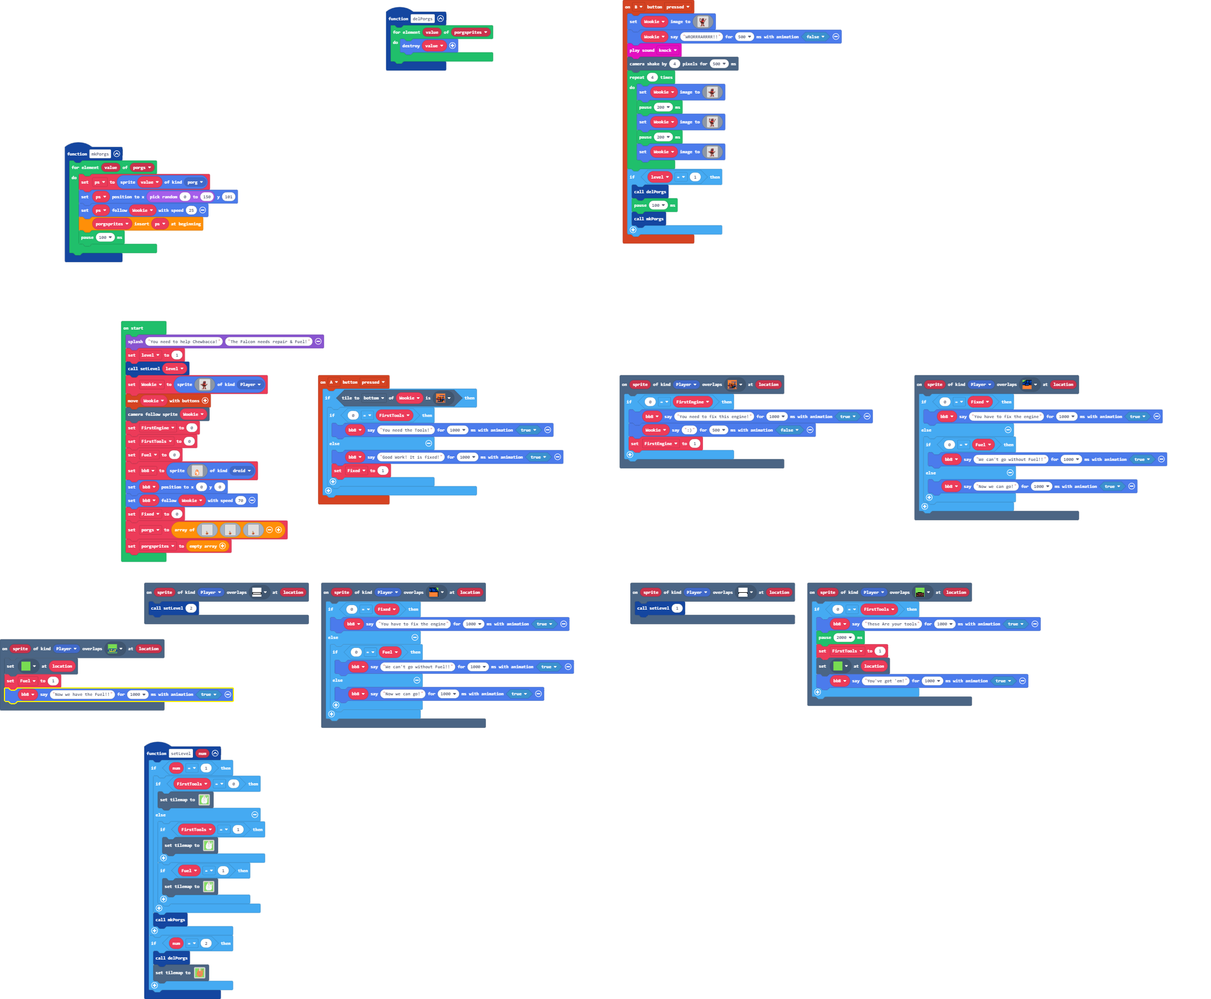
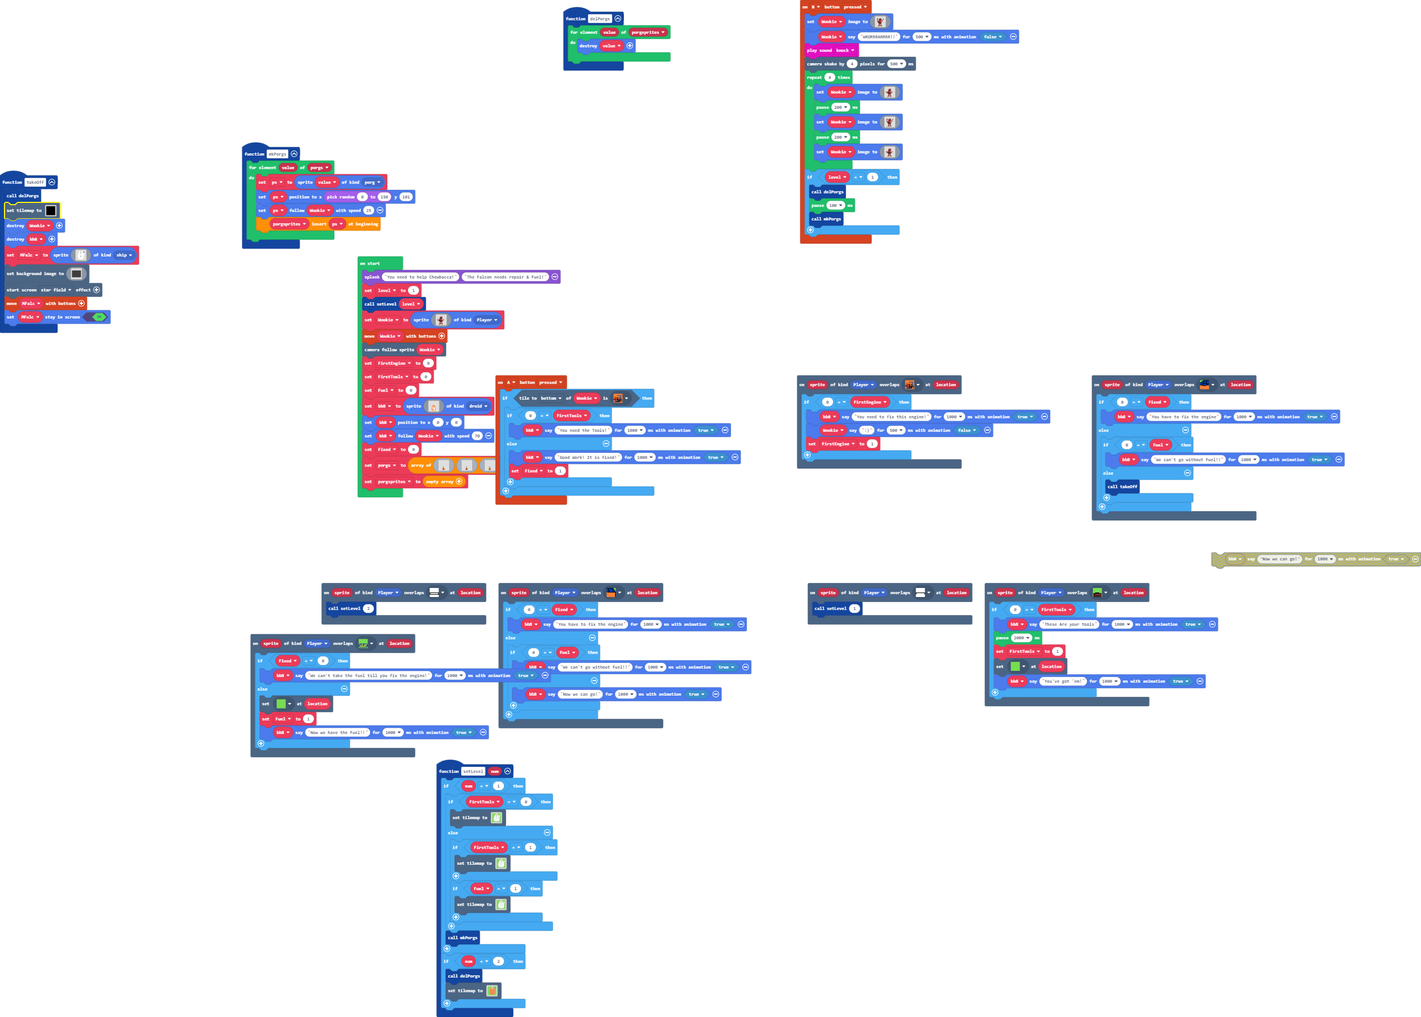
Update main.blocks, main.ts, tilemap.g.jres, tilemap.g.ts, images.g.jres, images.g.ts

Changed region(s): [[0.0, 0.1241, 1.0, 1.0], [0.4991, 0.0, 0.7174, 0.2482], [0.3119, 0.0, 0.4679, 0.0931]]

diff --git a/main.ts b/main.ts
@@ -1,6 +1,7 @@
 namespace SpriteKind {
     export const droid = SpriteKind.create()
     export const porg = SpriteKind.create()
+    export const ship = SpriteKind.create()
 }
 function setLevel (num: number) {
     if (num == 1) {
@@ -65,9 +66,13 @@ scene.onOverlapTile(SpriteKind.Player, assets.tile`myTile15`, function (sprite, 
     }
 })
 scene.onOverlapTile(SpriteKind.Player, assets.tile`myTile22`, function (sprite, location) {
-    tiles.setTileAt(location, assets.tile`myTile0`)
-    Fuel = 1
-    bb8.sayText("Now we have the Fuel!!", 1000, true)
+    if (Fixed == 0) {
+        bb8.sayText("We can't take the fuel till you fix the engine!", 1000, true)
+    } else {
+        tiles.setTileAt(location, assets.tile`myTile0`)
+        Fuel = 1
+        bb8.sayText("Now we have the Fuel!!", 1000, true)
+    }
 })
 controller.A.onEvent(ControllerButtonEvent.Pressed, function () {
     if (Wookie.tileKindAt(TileDirection.Bottom, assets.tile`engine`)) {
@@ -79,6 +84,138 @@ controller.A.onEvent(ControllerButtonEvent.Pressed, function () {
         }
     }
 })
+function takeOff () {
+    delPorgs()
+    tiles.setTilemap(tilemap`level7`)
+    Wookie.destroy()
+    bb8.destroy()
+    MFalc = sprites.create(assets.image`Falcon-fly`, SpriteKind.ship)
+    scene.setBackgroundImage(img`
+        ffffffffffffffffffffffffffffffffffffffffffffffffffffffffffffffffffffffffffffffffffffffffffffffffffffffffffffffffffffffffffffffffffffffffffffffffffffffffffffffff
+        ffffffffffffffffffffffffffffffffffffffffffffffffffffffffffffffffffffffffffffffffffffffffffffffffffffffffffffffffffffffffffffffffffffffffffffffffffffffffffffffff
+        ffffffffffffffffffffffffffffffffffffffffffffffffffffffffffffffffffffffffffffffffffffffffffffffffffffffffffffffffffffffffffffffffffffffffffffffffffffffffffffffff
+        ffffffffffffffffffffffffffffffffffffffffffffffffffffffffffffffffffffffffffffffffffffffffffffffffffffffffffffffffffffffffffffffffffffffffffffffffffffffffffffffff
+        ffffffffffffffffffffffffffffffffffffffffffffffffffffffffffffffffffffffffffffffffffffffffffffffffffffffffffffffffffffffffffffffffffffffffffffffffffffffffffffffff
+        ffffffffffffffffffffffffffffffffffffffffffffffffffffffffffffffffffffffffffffffffffffffffffffffffffffffffffffffffffffffffffffffffffffffffffffffffffffffffffffffff
+        ffffffffffffffffffffffffffffffffffffffffffffffffffffffffffffffffffffffffffffffffffffffffffffffffffffffffffffffffffffffffffffffffffffffffffffffffffffffffffffffff
+        ffffffffffffffffffffffffffffffffffffffffffffffffffffffffffffffffffffffffffffffffffffffffffffffffffffffffffffffffffffffffffffffffffffffffffffffffffffffffffffffff
+        ffffffffffffffffffffffffffffffffffffffffffffffffffffffffffffffffffffffffffffffffffffffffffffffffffffffffffffffffffffffffffffffffffffffffffffffffffffffffffffffff
+        ffffffffffffffffffffffffffffffffffffffffffffffffffffffffffffffffffffffffffffffffffffffffffffffffffffffffffffffffffffffffffffffffffffffffffffffffffffffffffffffff
+        ffffffffffffffffffffffffffffffffffffffffffffffffffffffffffffffffffffffffffffffffffffffffffffffffffffffffffffffffffffffffffffffffffffffffffffffffffffffffffffffff
+        ffffffffffffffffffffffffffffffffffffffffffffffffffffffffffffffffffffffffffffffffffffffffffffffffffffffffffffffffffffffffffffffffffffffffffffffffffffffffffffffff
+        ffffffffffffffffffffffffffffffffffffffffffffffffffffffffffffffffffffffffffffffffffffffffffffffffffffffffffffffffffffffffffffffffffffffffffffffffffffffffffffffff
+        ffffffffffffffffffffffffffffffffffffffffffffffffffffffffffffffffffffffffffffffffffffffffffffffffffffffffffffffffffffffffffffffffffffffffffffffffffffffffffffffff
+        ffffffffffffffffffffffffffffffffffffffffffffffffffffffffffffffffffffffffffffffffffffffffffffffffffffffffffffffffffffffffffffffffffffffffffffffffffffffffffffffff
+        ffffffffffffffffffffffffffffffffffffffffffffffffffffffffffffffffffffffffffffffffffffffffffffffffffffffffffffffffffffffffffffffffffffffffffffffffffffffffffffffff
+        ffffffffffffffffffffffffffffffffffffffffffffffffffffffffffffffffffffffffffffffffffffffffffffffffffffffffffffffffffffffffffffffffffffffffffffffffffffffffffffffff
+        ffffffffffffffffffffffffffffffffffffffffffffffffffffffffffffffffffffffffffffffffffffffffffffffffffffffffffffffffffffffffffffffffffffffffffffffffffffffffffffffff
+        ffffffffffffffffffffffffffffffffffffffffffffffffffffffffffffffffffffffffffffffffffffffffffffffffffffffffffffffffffffffffffffffffffffffffffffffffffffffffffffffff
+        ffffffffffffffffffffffffffffffffffffffffffffffffffffffffffffffffffffffffffffffffffffffffffffffffffffffffffffffffffffffffffffffffffffffffffffffffffffffffffffffff
+        ffffffffffffffffffffffffffffffffffffffffffffffffffffffffffffffffffffffffffffffffffffffffffffffffffffffffffffffffffffffffffffffffffffffffffffffffffffffffffffffff
+        ffffffffffffffffffffffffffffffffffffffffffffffffffffffffffffffffffffffffffffffffffffffffffffffffffffffffffffffffffffffffffffffffffffffffffffffffffffffffffffffff
+        ffffffffffffffffffffffffffffffffffffffffffffffffffffffffffffffffffffffffffffffffffffffffffffffffffffffffffffffffffffffffffffffffffffffffffffffffffffffffffffffff
+        ffffffffffffffffffffffffffffffffffffffffffffffffffffffffffffffffffffffffffffffffffffffffffffffffffffffffffffffffffffffffffffffffffffffffffffffffffffffffffffffff
+        ffffffffffffffffffffffffffffffffffffffffffffffffffffffffffffffffffffffffffffffffffffffffffffffffffffffffffffffffffffffffffffffffffffffffffffffffffffffffffffffff
+        ffffffffffffffffffffffffffffffffffffffffffffffffffffffffffffffffffffffffffffffffffffffffffffffffffffffffffffffffffffffffffffffffffffffffffffffffffffffffffffffff
+        ffffffffffffffffffffffffffffffffffffffffffffffffffffffffffffffffffffffffffffffffffffffffffffffffffffffffffffffffffffffffffffffffffffffffffffffffffffffffffffffff
+        ffffffffffffffffffffffffffffffffffffffffffffffffffffffffffffffffffffffffffffffffffffffffffffffffffffffffffffffffffffffffffffffffffffffffffffffffffffffffffffffff
+        ffffffffffffffffffffffffffffffffffffffffffffffffffffffffffffffffffffffffffffffffffffffffffffffffffffffffffffffffffffffffffffffffffffffffffffffffffffffffffffffff
+        ffffffffffffffffffffffffffffffffffffffffffffffffffffffffffffffffffffffffffffffffffffffffffffffffffffffffffffffffffffffffffffffffffffffffffffffffffffffffffffffff
+        ffffffffffffffffffffffffffffffffffffffffffffffffffffffffffffffffffffffffffffffffffffffffffffffffffffffffffffffffffffffffffffffffffffffffffffffffffffffffffffffff
+        ffffffffffffffffffffffffffffffffffffffffffffffffffffffffffffffffffffffffffffffffffffffffffffffffffffffffffffffffffffffffffffffffffffffffffffffffffffffffffffffff
+        ffffffffffffffffffffffffffffffffffffffffffffffffffffffffffffffffffffffffffffffffffffffffffffffffffffffffffffffffffffffffffffffffffffffffffffffffffffffffffffffff
+        ffffffffffffffffffffffffffffffffffffffffffffffffffffffffffffffffffffffffffffffffffffffffffffffffffffffffffffffffffffffffffffffffffffffffffffffffffffffffffffffff
+        ffffffffffffffffffffffffffffffffffffffffffffffffffffffffffffffffffffffffffffffffffffffffffffffffffffffffffffffffffffffffffffffffffffffffffffffffffffffffffffffff
+        ffffffffffffffffffffffffffffffffffffffffffffffffffffffffffffffffffffffffffffffffffffffffffffffffffffffffffffffffffffffffffffffffffffffffffffffffffffffffffffffff
+        ffffffffffffffffffffffffffffffffffffffffffffffffffffffffffffffffffffffffffffffffffffffffffffffffffffffffffffffffffffffffffffffffffffffffffffffffffffffffffffffff
+        ffffffffffffffffffffffffffffffffffffffffffffffffffffffffffffffffffffffffffffffffffffffffffffffffffffffffffffffffffffffffffffffffffffffffffffffffffffffffffffffff
+        ffffffffffffffffffffffffffffffffffffffffffffffffffffffffffffffffffffffffffffffffffffffffffffffffffffffffffffffffffffffffffffffffffffffffffffffffffffffffffffffff
+        ffffffffffffffffffffffffffffffffffffffffffffffffffffffffffffffffffffffffffffffffffffffffffffffffffffffffffffffffffffffffffffffffffffffffffffffffffffffffffffffff
+        ffffffffffffffffffffffffffffffffffffffffffffffffffffffffffffffffffffffffffffffffffffffffffffffffffffffffffffffffffffffffffffffffffffffffffffffffffffffffffffffff
+        ffffffffffffffffffffffffffffffffffffffffffffffffffffffffffffffffffffffffffffffffffffffffffffffffffffffffffffffffffffffffffffffffffffffffffffffffffffffffffffffff
+        ffffffffffffffffffffffffffffffffffffffffffffffffffffffffffffffffffffffffffffffffffffffffffffffffffffffffffffffffffffffffffffffffffffffffffffffffffffffffffffffff
+        ffffffffffffffffffffffffffffffffffffffffffffffffffffffffffffffffffffffffffffffffffffffffffffffffffffffffffffffffffffffffffffffffffffffffffffffffffffffffffffffff
+        ffffffffffffffffffffffffffffffffffffffffffffffffffffffffffffffffffffffffffffffffffffffffffffffffffffffffffffffffffffffffffffffffffffffffffffffffffffffffffffffff
+        ffffffffffffffffffffffffffffffffffffffffffffffffffffffffffffffffffffffffffffffffffffffffffffffffffffffffffffffffffffffffffffffffffffffffffffffffffffffffffffffff
+        ffffffffffffffffffffffffffffffffffffffffffffffffffffffffffffffffffffffffffffffffffffffffffffffffffffffffffffffffffffffffffffffffffffffffffffffffffffffffffffffff
+        ffffffffffffffffffffffffffffffffffffffffffffffffffffffffffffffffffffffffffffffffffffffffffffffffffffffffffffffffffffffffffffffffffffffffffffffffffffffffffffffff
+        ffffffffffffffffffffffffffffffffffffffffffffffffffffffffffffffffffffffffffffffffffffffffffffffffffffffffffffffffffffffffffffffffffffffffffffffffffffffffffffffff
+        ffffffffffffffffffffffffffffffffffffffffffffffffffffffffffffffffffffffffffffffffffffffffffffffffffffffffffffffffffffffffffffffffffffffffffffffffffffffffffffffff
+        ffffffffffffffffffffffffffffffffffffffffffffffffffffffffffffffffffffffffffffffffffffffffffffffffffffffffffffffffffffffffffffffffffffffffffffffffffffffffffffffff
+        ffffffffffffffffffffffffffffffffffffffffffffffffffffffffffffffffffffffffffffffffffffffffffffffffffffffffffffffffffffffffffffffffffffffffffffffffffffffffffffffff
+        ffffffffffffffffffffffffffffffffffffffffffffffffffffffffffffffffffffffffffffffffffffffffffffffffffffffffffffffffffffffffffffffffffffffffffffffffffffffffffffffff
+        ffffffffffffffffffffffffffffffffffffffffffffffffffffffffffffffffffffffffffffffffffffffffffffffffffffffffffffffffffffffffffffffffffffffffffffffffffffffffffffffff
+        ffffffffffffffffffffffffffffffffffffffffffffffffffffffffffffffffffffffffffffffffffffffffffffffffffffffffffffffffffffffffffffffffffffffffffffffffffffffffffffffff
+        ffffffffffffffffffffffffffffffffffffffffffffffffffffffffffffffffffffffffffffffffffffffffffffffffffffffffffffffffffffffffffffffffffffffffffffffffffffffffffffffff
+        ffffffffffffffffffffffffffffffffffffffffffffffffffffffffffffffffffffffffffffffffffffffffffffffffffffffffffffffffffffffffffffffffffffffffffffffffffffffffffffffff
+        ffffffffffffffffffffffffffffffffffffffffffffffffffffffffffffffffffffffffffffffffffffffffffffffffffffffffffffffffffffffffffffffffffffffffffffffffffffffffffffffff
+        ffffffffffffffffffffffffffffffffffffffffffffffffffffffffffffffffffffffffffffffffffffffffffffffffffffffffffffffffffffffffffffffffffffffffffffffffffffffffffffffff
+        ffffffffffffffffffffffffffffffffffffffffffffffffffffffffffffffffffffffffffffffffffffffffffffffffffffffffffffffffffffffffffffffffffffffffffffffffffffffffffffffff
+        ffffffffffffffffffffffffffffffffffffffffffffffffffffffffffffffffffffffffffffffffffffffffffffffffffffffffffffffffffffffffffffffffffffffffffffffffffffffffffffffff
+        ffffffffffffffffffffffffffffffffffffffffffffffffffffffffffffffffffffffffffffffffffffffffffffffffffffffffffffffffffffffffffffffffffffffffffffffffffffffffffffffff
+        ffffffffffffffffffffffffffffffffffffffffffffffffffffffffffffffffffffffffffffffffffffffffffffffffffffffffffffffffffffffffffffffffffffffffffffffffffffffffffffffff
+        ffffffffffffffffffffffffffffffffffffffffffffffffffffffffffffffffffffffffffffffffffffffffffffffffffffffffffffffffffffffffffffffffffffffffffffffffffffffffffffffff
+        ffffffffffffffffffffffffffffffffffffffffffffffffffffffffffffffffffffffffffffffffffffffffffffffffffffffffffffffffffffffffffffffffffffffffffffffffffffffffffffffff
+        ffffffffffffffffffffffffffffffffffffffffffffffffffffffffffffffffffffffffffffffffffffffffffffffffffffffffffffffffffffffffffffffffffffffffffffffffffffffffffffffff
+        ffffffffffffffffffffffffffffffffffffffffffffffffffffffffffffffffffffffffffffffffffffffffffffffffffffffffffffffffffffffffffffffffffffffffffffffffffffffffffffffff
+        ffffffffffffffffffffffffffffffffffffffffffffffffffffffffffffffffffffffffffffffffffffffffffffffffffffffffffffffffffffffffffffffffffffffffffffffffffffffffffffffff
+        ffffffffffffffffffffffffffffffffffffffffffffffffffffffffffffffffffffffffffffffffffffffffffffffffffffffffffffffffffffffffffffffffffffffffffffffffffffffffffffffff
+        ffffffffffffffffffffffffffffffffffffffffffffffffffffffffffffffffffffffffffffffffffffffffffffffffffffffffffffffffffffffffffffffffffffffffffffffffffffffffffffffff
+        ffffffffffffffffffffffffffffffffffffffffffffffffffffffffffffffffffffffffffffffffffffffffffffffffffffffffffffffffffffffffffffffffffffffffffffffffffffffffffffffff
+        ffffffffffffffffffffffffffffffffffffffffffffffffffffffffffffffffffffffffffffffffffffffffffffffffffffffffffffffffffffffffffffffffffffffffffffffffffffffffffffffff
+        ffffffffffffffffffffffffffffffffffffffffffffffffffffffffffffffffffffffffffffffffffffffffffffffffffffffffffffffffffffffffffffffffffffffffffffffffffffffffffffffff
+        ffffffffffffffffffffffffffffffffffffffffffffffffffffffffffffffffffffffffffffffffffffffffffffffffffffffffffffffffffffffffffffffffffffffffffffffffffffffffffffffff
+        ffffffffffffffffffffffffffffffffffffffffffffffffffffffffffffffffffffffffffffffffffffffffffffffffffffffffffffffffffffffffffffffffffffffffffffffffffffffffffffffff
+        ffffffffffffffffffffffffffffffffffffffffffffffffffffffffffffffffffffffffffffffffffffffffffffffffffffffffffffffffffffffffffffffffffffffffffffffffffffffffffffffff
+        ffffffffffffffffffffffffffffffffffffffffffffffffffffffffffffffffffffffffffffffffffffffffffffffffffffffffffffffffffffffffffffffffffffffffffffffffffffffffffffffff
+        ffffffffffffffffffffffffffffffffffffffffffffffffffffffffffffffffffffffffffffffffffffffffffffffffffffffffffffffffffffffffffffffffffffffffffffffffffffffffffffffff
+        ffffffffffffffffffffffffffffffffffffffffffffffffffffffffffffffffffffffffffffffffffffffffffffffffffffffffffffffffffffffffffffffffffffffffffffffffffffffffffffffff
+        ffffffffffffffffffffffffffffffffffffffffffffffffffffffffffffffffffffffffffffffffffffffffffffffffffffffffffffffffffffffffffffffffffffffffffffffffffffffffffffffff
+        ffffffffffffffffffffffffffffffffffffffffffffffffffffffffffffffffffffffffffffffffffffffffffffffffffffffffffffffffffffffffffffffffffffffffffffffffffffffffffffffff
+        ffffffffffffffffffffffffffffffffffffffffffffffffffffffffffffffffffffffffffffffffffffffffffffffffffffffffffffffffffffffffffffffffffffffffffffffffffffffffffffffff
+        ffffffffffffffffffffffffffffffffffffffffffffffffffffffffffffffffffffffffffffffffffffffffffffffffffffffffffffffffffffffffffffffffffffffffffffffffffffffffffffffff
+        ffffffffffffffffffffffffffffffffffffffffffffffffffffffffffffffffffffffffffffffffffffffffffffffffffffffffffffffffffffffffffffffffffffffffffffffffffffffffffffffff
+        ffffffffffffffffffffffffffffffffffffffffffffffffffffffffffffffffffffffffffffffffffffffffffffffffffffffffffffffffffffffffffffffffffffffffffffffffffffffffffffffff
+        ffffffffffffffffffffffffffffffffffffffffffffffffffffffffffffffffffffffffffffffffffffffffffffffffffffffffffffffffffffffffffffffffffffffffffffffffffffffffffffffff
+        ffffffffffffffffffffffffffffffffffffffffffffffffffffffffffffffffffffffffffffffffffffffffffffffffffffffffffffffffffffffffffffffffffffffffffffffffffffffffffffffff
+        ffffffffffffffffffffffffffffffffffffffffffffffffffffffffffffffffffffffffffffffffffffffffffffffffffffffffffffffffffffffffffffffffffffffffffffffffffffffffffffffff
+        ffffffffffffffffffffffffffffffffffffffffffffffffffffffffffffffffffffffffffffffffffffffffffffffffffffffffffffffffffffffffffffffffffffffffffffffffffffffffffffffff
+        ffffffffffffffffffffffffffffffffffffffffffffffffffffffffffffffffffffffffffffffffffffffffffffffffffffffffffffffffffffffffffffffffffffffffffffffffffffffffffffffff
+        ffffffffffffffffffffffffffffffffffffffffffffffffffffffffffffffffffffffffffffffffffffffffffffffffffffffffffffffffffffffffffffffffffffffffffffffffffffffffffffffff
+        ffffffffffffffffffffffffffffffffffffffffffffffffffffffffffffffffffffffffffffffffffffffffffffffffffffffffffffffffffffffffffffffffffffffffffffffffffffffffffffffff
+        ffffffffffffffffffffffffffffffffffffffffffffffffffffffffffffffffffffffffffffffffffffffffffffffffffffffffffffffffffffffffffffffffffffffffffffffffffffffffffffffff
+        ffffffffffffffffffffffffffffffffffffffffffffffffffffffffffffffffffffffffffffffffffffffffffffffffffffffffffffffffffffffffffffffffffffffffffffffffffffffffffffffff
+        ffffffffffffffffffffffffffffffffffffffffffffffffffffffffffffffffffffffffffffffffffffffffffffffffffffffffffffffffffffffffffffffffffffffffffffffffffffffffffffffff
+        ffffffffffffffffffffffffffffffffffffffffffffffffffffffffffffffffffffffffffffffffffffffffffffffffffffffffffffffffffffffffffffffffffffffffffffffffffffffffffffffff
+        ffffffffffffffffffffffffffffffffffffffffffffffffffffffffffffffffffffffffffffffffffffffffffffffffffffffffffffffffffffffffffffffffffffffffffffffffffffffffffffffff
+        ffffffffffffffffffffffffffffffffffffffffffffffffffffffffffffffffffffffffffffffffffffffffffffffffffffffffffffffffffffffffffffffffffffffffffffffffffffffffffffffff
+        ffffffffffffffffffffffffffffffffffffffffffffffffffffffffffffffffffffffffffffffffffffffffffffffffffffffffffffffffffffffffffffffffffffffffffffffffffffffffffffffff
+        ffffffffffffffffffffffffffffffffffffffffffffffffffffffffffffffffffffffffffffffffffffffffffffffffffffffffffffffffffffffffffffffffffffffffffffffffffffffffffffffff
+        ffffffffffffffffffffffffffffffffffffffffffffffffffffffffffffffffffffffffffffffffffffffffffffffffffffffffffffffffffffffffffffffffffffffffffffffffffffffffffffffff
+        ffffffffffffffffffffffffffffffffffffffffffffffffffffffffffffffffffffffffffffffffffffffffffffffffffffffffffffffffffffffffffffffffffffffffffffffffffffffffffffffff
+        ffffffffffffffffffffffffffffffffffffffffffffffffffffffffffffffffffffffffffffffffffffffffffffffffffffffffffffffffffffffffffffffffffffffffffffffffffffffffffffffff
+        ffffffffffffffffffffffffffffffffffffffffffffffffffffffffffffffffffffffffffffffffffffffffffffffffffffffffffffffffffffffffffffffffffffffffffffffffffffffffffffffff
+        ffffffffffffffffffffffffffffffffffffffffffffffffffffffffffffffffffffffffffffffffffffffffffffffffffffffffffffffffffffffffffffffffffffffffffffffffffffffffffffffff
+        ffffffffffffffffffffffffffffffffffffffffffffffffffffffffffffffffffffffffffffffffffffffffffffffffffffffffffffffffffffffffffffffffffffffffffffffffffffffffffffffff
+        ffffffffffffffffffffffffffffffffffffffffffffffffffffffffffffffffffffffffffffffffffffffffffffffffffffffffffffffffffffffffffffffffffffffffffffffffffffffffffffffff
+        ffffffffffffffffffffffffffffffffffffffffffffffffffffffffffffffffffffffffffffffffffffffffffffffffffffffffffffffffffffffffffffffffffffffffffffffffffffffffffffffff
+        ffffffffffffffffffffffffffffffffffffffffffffffffffffffffffffffffffffffffffffffffffffffffffffffffffffffffffffffffffffffffffffffffffffffffffffffffffffffffffffffff
+        ffffffffffffffffffffffffffffffffffffffffffffffffffffffffffffffffffffffffffffffffffffffffffffffffffffffffffffffffffffffffffffffffffffffffffffffffffffffffffffffff
+        ffffffffffffffffffffffffffffffffffffffffffffffffffffffffffffffffffffffffffffffffffffffffffffffffffffffffffffffffffffffffffffffffffffffffffffffffffffffffffffffff
+        ffffffffffffffffffffffffffffffffffffffffffffffffffffffffffffffffffffffffffffffffffffffffffffffffffffffffffffffffffffffffffffffffffffffffffffffffffffffffffffffff
+        ffffffffffffffffffffffffffffffffffffffffffffffffffffffffffffffffffffffffffffffffffffffffffffffffffffffffffffffffffffffffffffffffffffffffffffffffffffffffffffffff
+        ffffffffffffffffffffffffffffffffffffffffffffffffffffffffffffffffffffffffffffffffffffffffffffffffffffffffffffffffffffffffffffffffffffffffffffffffffffffffffffffff
+        ffffffffffffffffffffffffffffffffffffffffffffffffffffffffffffffffffffffffffffffffffffffffffffffffffffffffffffffffffffffffffffffffffffffffffffffffffffffffffffffff
+        ffffffffffffffffffffffffffffffffffffffffffffffffffffffffffffffffffffffffffffffffffffffffffffffffffffffffffffffffffffffffffffffffffffffffffffffffffffffffffffffff
+        ffffffffffffffffffffffffffffffffffffffffffffffffffffffffffffffffffffffffffffffffffffffffffffffffffffffffffffffffffffffffffffffffffffffffffffffffffffffffffffffff
+        ffffffffffffffffffffffffffffffffffffffffffffffffffffffffffffffffffffffffffffffffffffffffffffffffffffffffffffffffffffffffffffffffffffffffffffffffffffffffffffffff
+        ffffffffffffffffffffffffffffffffffffffffffffffffffffffffffffffffffffffffffffffffffffffffffffffffffffffffffffffffffffffffffffffffffffffffffffffffffffffffffffffff
+        ffffffffffffffffffffffffffffffffffffffffffffffffffffffffffffffffffffffffffffffffffffffffffffffffffffffffffffffffffffffffffffffffffffffffffffffffffffffffffffffff
+        `)
+    effects.starField.startScreenEffect()
+    controller.moveSprite(MFalc)
+    MFalc.setStayInScreen(true)
+}
 scene.onOverlapTile(SpriteKind.Player, assets.tile`myTile16`, function (sprite, location) {
     if (0 == Fixed) {
         bb8.sayText("You have to fix the engine", 1000, true)
@@ -86,7 +223,7 @@ scene.onOverlapTile(SpriteKind.Player, assets.tile`myTile16`, function (sprite, 
         if (0 == Fuel) {
             bb8.sayText("We can't go without Fuel!!", 1000, true)
         } else {
-            bb8.sayText("Now we can go!", 1000, true)
+            takeOff()
         }
     }
 })
@@ -99,7 +236,6 @@ function mkPorgs () {
         ps.setPosition(randint(0, 150), 101)
         ps.follow(Wookie, 25)
         porgsprites.unshift(ps)
-        pause(100)
     }
 }
 scene.onOverlapTile(SpriteKind.Player, assets.tile`exit`, function (sprite, location) {
@@ -113,6 +249,7 @@ scene.onOverlapTile(SpriteKind.Player, assets.tile`engine`, function (sprite, lo
     }
 })
 let ps: Sprite = null
+let MFalc: Sprite = null
 let porgsprites: Sprite[] = []
 let porgs: Image[] = []
 let Fixed = 0

diff --git a/tilemap.g.ts b/tilemap.g.ts
@@ -58,6 +58,8 @@ namespace myTiles {
     export const tile27 = image.ofBuffer(hex``);
     //% fixedInstance jres blockIdentity=images._tile
     export const tile28 = image.ofBuffer(hex``);
+    //% fixedInstance jres blockIdentity=images._tile
+    export const tile29 = image.ofBuffer(hex``);
 
     helpers._registerFactory("tilemap", function(name: string) {
         switch(helpers.stringTrim(name)) {
@@ -210,6 +212,25 @@ namespace myTiles {
 .......2222222......
 ....................
 `, [myTiles.transparency16,myTiles.tile2,myTiles.tile5,sprites.castle.tileGrass1,sprites.castle.tileGrass2,sprites.builtin.forestTiles4,sprites.castle.tilePath5,sprites.castle.tilePath2,myTiles.tile12,myTiles.tile9,myTiles.tile8,myTiles.tile11,myTiles.tile14,myTiles.tile15,myTiles.tile16,myTiles.tile21], TileScale.Sixteen);
+            case "level7":
+            case "level7":return tiles.createTilemap(hex`1000100001010101010101010101010101010101010101010101010101010101010101010101010101010101010101010101010101010101010101010101010101010101010101010101010101010101010101010101010101010101010101010101010101010101010101010101010101010101010101010101010101010101010101010101010101010101010101010101010101010101010101010101010101010101010101010101010101010101010101010101010101010101010101010101010101010101010101010101010101010101010101010101010101010101010101010101010101010101010101010101010101010101010101010101010101010101`, img`
+. . . . . . . . . . . . . . . . 
+. . . . . . . . . . . . . . . . 
+. . . . . . . . . . . . . . . . 
+. . . . . . . . . . . . . . . . 
+. . . . . . . . . . . . . . . . 
+. . . . . . . . . . . . . . . . 
+. . . . . . . . . . . . . . . . 
+. . . . . . . . . . . . . . . . 
+. . . . . . . . . . . . . . . . 
+. . . . . . . . . . . . . . . . 
+. . . . . . . . . . . . . . . . 
+. . . . . . . . . . . . . . . . 
+. . . . . . . . . . . . . . . . 
+. . . . . . . . . . . . . . . . 
+. . . . . . . . . . . . . . . . 
+. . . . . . . . . . . . . . . . 
+`, [myTiles.transparency16,myTiles.tile29], TileScale.Sixteen);
         }
         return null;
     })
@@ -273,6 +294,8 @@ namespace myTiles {
             case "tile27":return tile27;
             case "myTile22":
             case "tile28":return tile28;
+            case "myTile23":
+            case "tile29":return tile29;
         }
         return null;
     })

diff --git a/images.g.ts b/images.g.ts
@@ -79,6 +79,25 @@ namespace myImages {
 . . . . . 4 4 e e 4 . . . . . . 
 . . . . . . e e e . . . . . . . 
 `;
+            case "image5":
+            case "Falcon-fly":return img`
+. . . . . 1 . . . 1 . . . . . . 
+. . . . 1 1 . . . 1 1 . . . . . 
+. . . . 1 1 . . . 1 1 . 8 8 . . 
+. . . . 1 1 . . . 1 1 . 1 1 . . 
+. . . 1 1 1 . . . 1 1 1 1 1 . . 
+. . . 1 1 1 . . . 1 1 1 1 1 . . 
+. . . 1 1 1 1 1 1 1 1 1 1 . . . 
+. . 1 1 1 1 1 1 1 1 1 1 1 . . . 
+. . 1 1 1 1 1 1 1 1 1 1 1 . . . 
+. . 1 1 1 1 1 f 1 1 1 1 1 . . . 
+. . 1 1 1 1 1 1 1 1 1 1 1 . . . 
+. . . 1 1 1 1 1 1 1 1 1 . . . . 
+. . . 1 1 1 1 1 1 1 1 1 . . . . 
+. . . 1 1 1 1 1 1 1 1 1 . . . . 
+. . . . 1 1 1 1 1 1 1 . . . . . 
+. . . . . . . . . . . . . . . . 
+`;
         }
         return null;
     })
